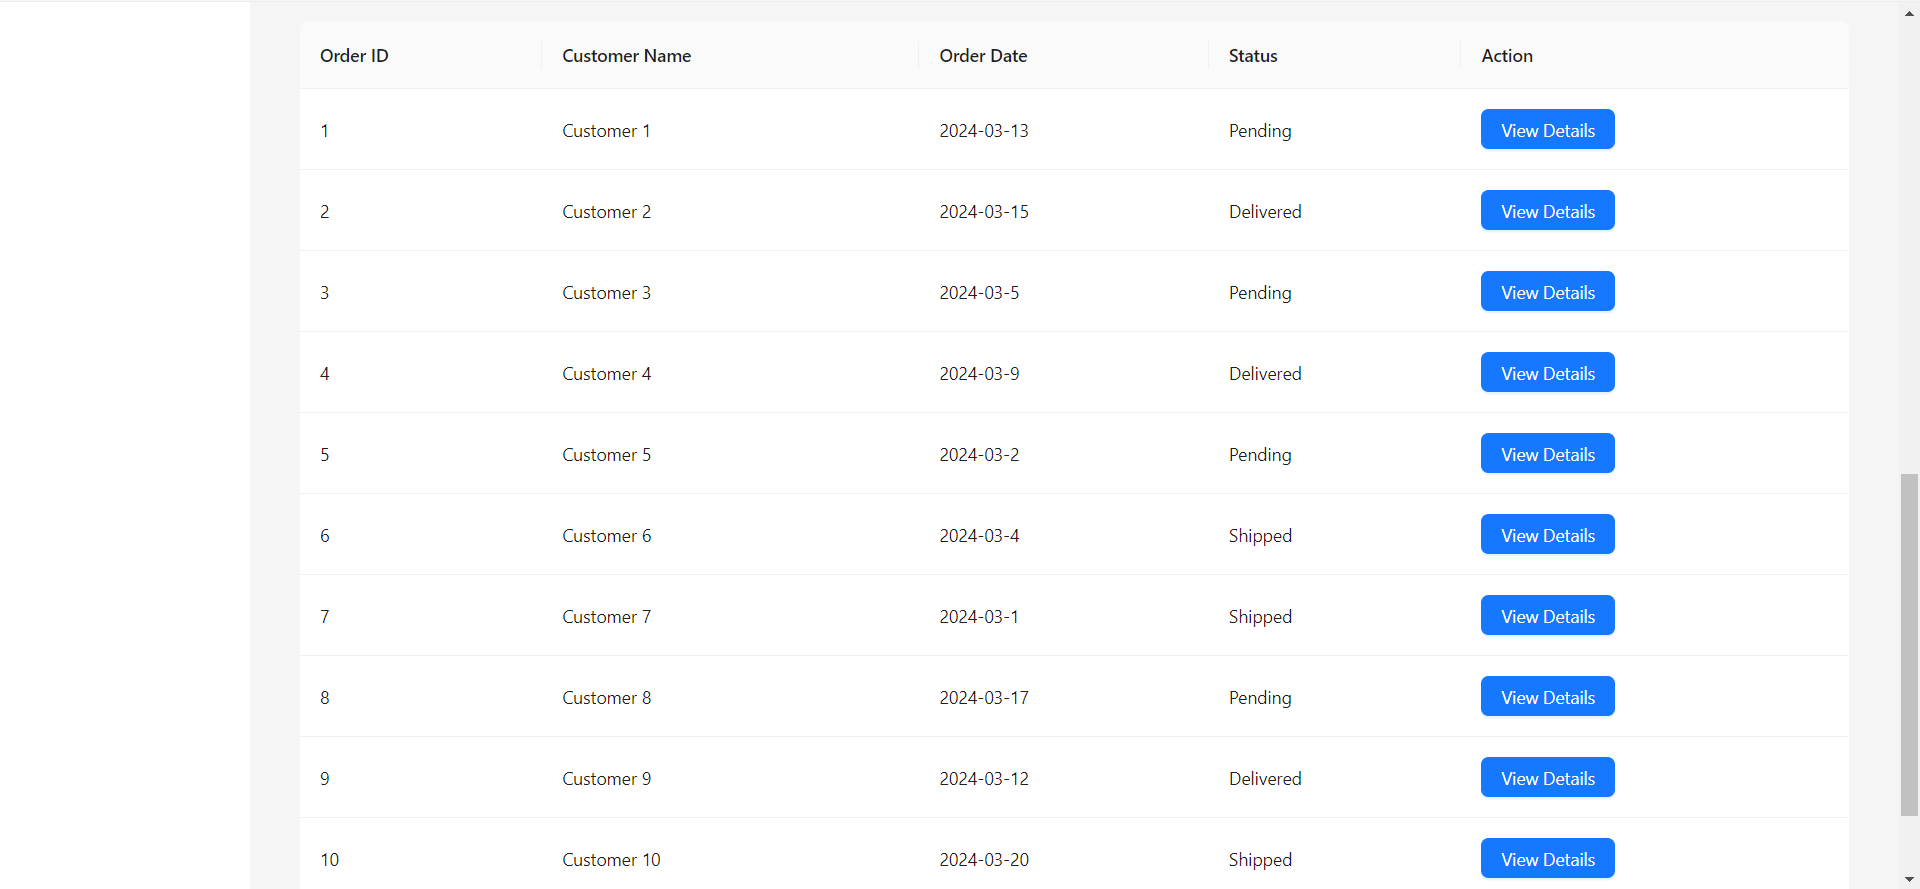
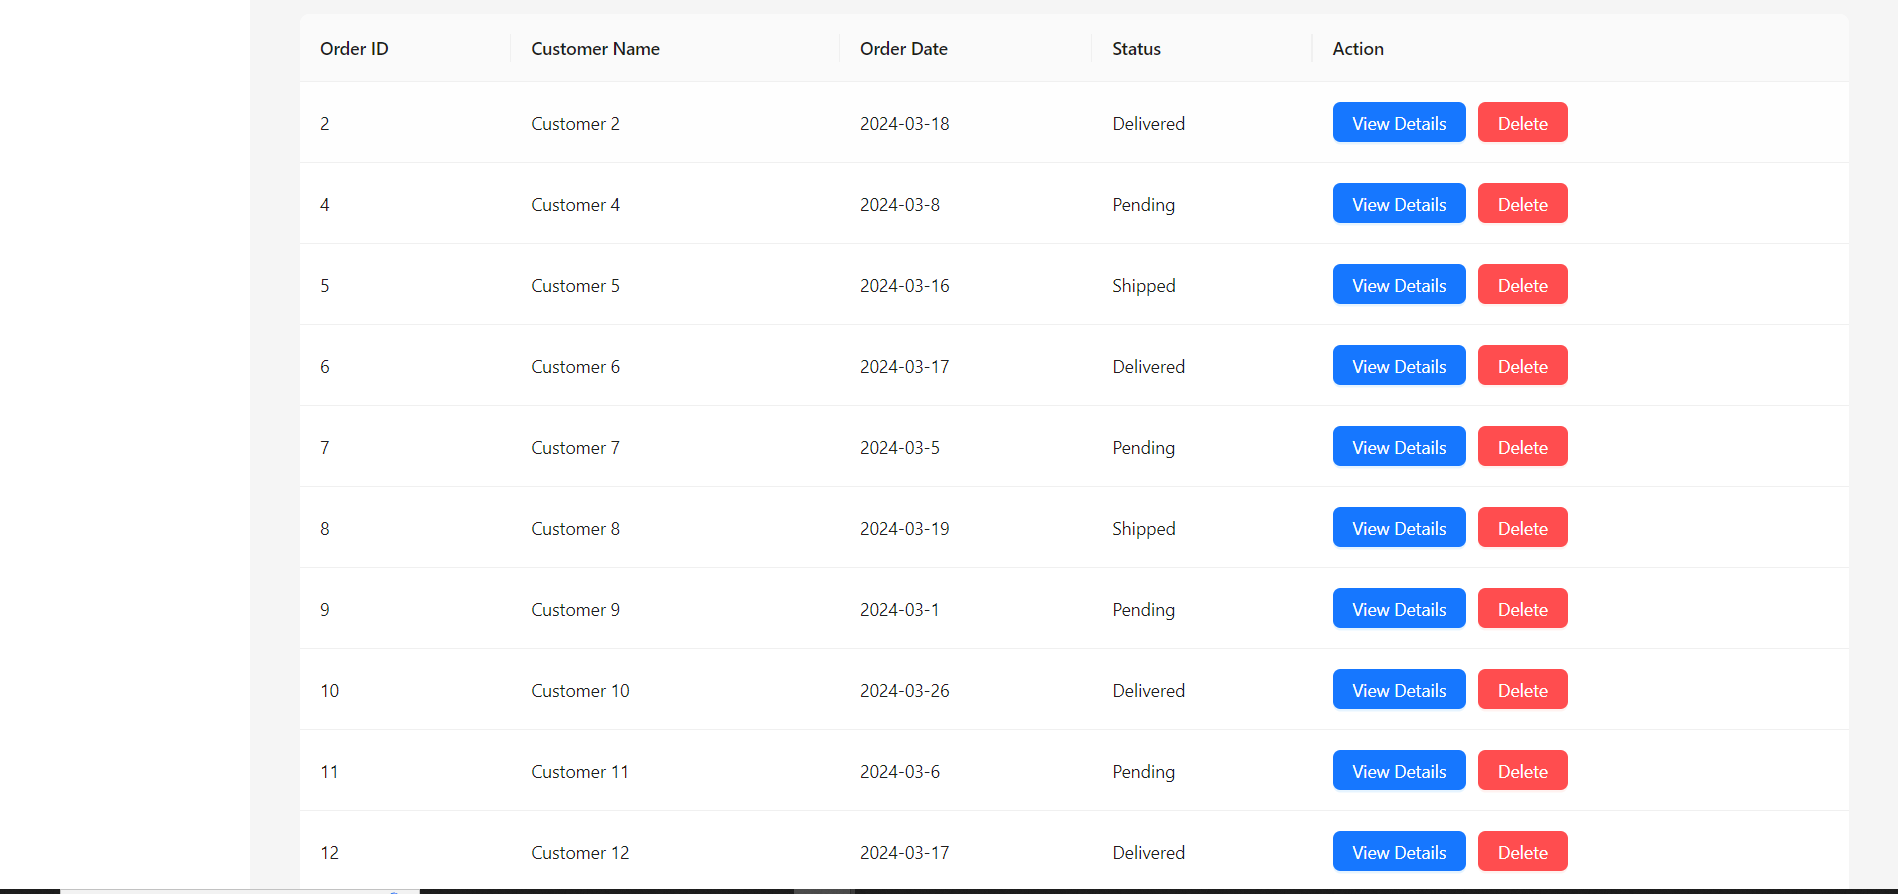
Delete Order

diff --git a/src/pages/orders/orders.tsx b/src/pages/orders/orders.tsx
@@ -32,6 +32,10 @@ const OrdersManagement: React.FC = () => {
           <Button type="primary" onClick={() => handleViewDetails(record)}>
             View Details
           </Button>
+          <Button type="primary" style={{ marginLeft: "10px" }} danger onClick={() => handleDelete(record.id)}>
+            Delete
+          </Button>
+
         </div>
       ),
     },
@@ -57,6 +61,11 @@ const OrdersManagement: React.FC = () => {
   const handleViewDetails = (record: Order) => {
     setSelectedOrder(record);
     setIsModalVisible(true);
+  };
+  const handleDelete = (orderId: number) => {
+    const updatedOrders = orders.filter(order => order.id !== orderId);
+    setOrders(updatedOrders);
+    message.success("Order deleted successfully!");
   };
   const handleViewDetailsDate = (record: Order) => {
     Modal.info({
